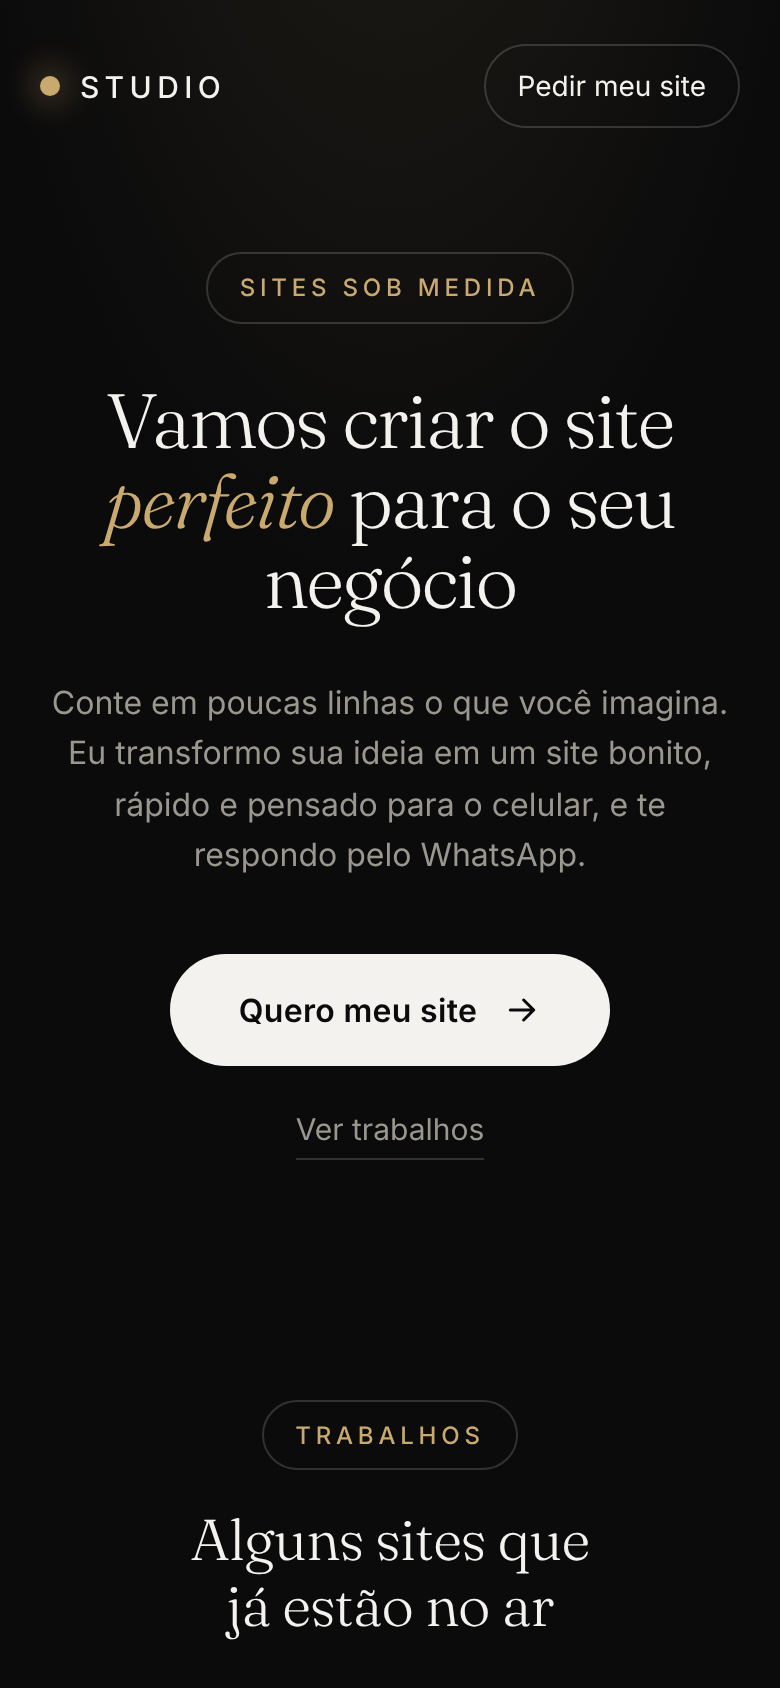
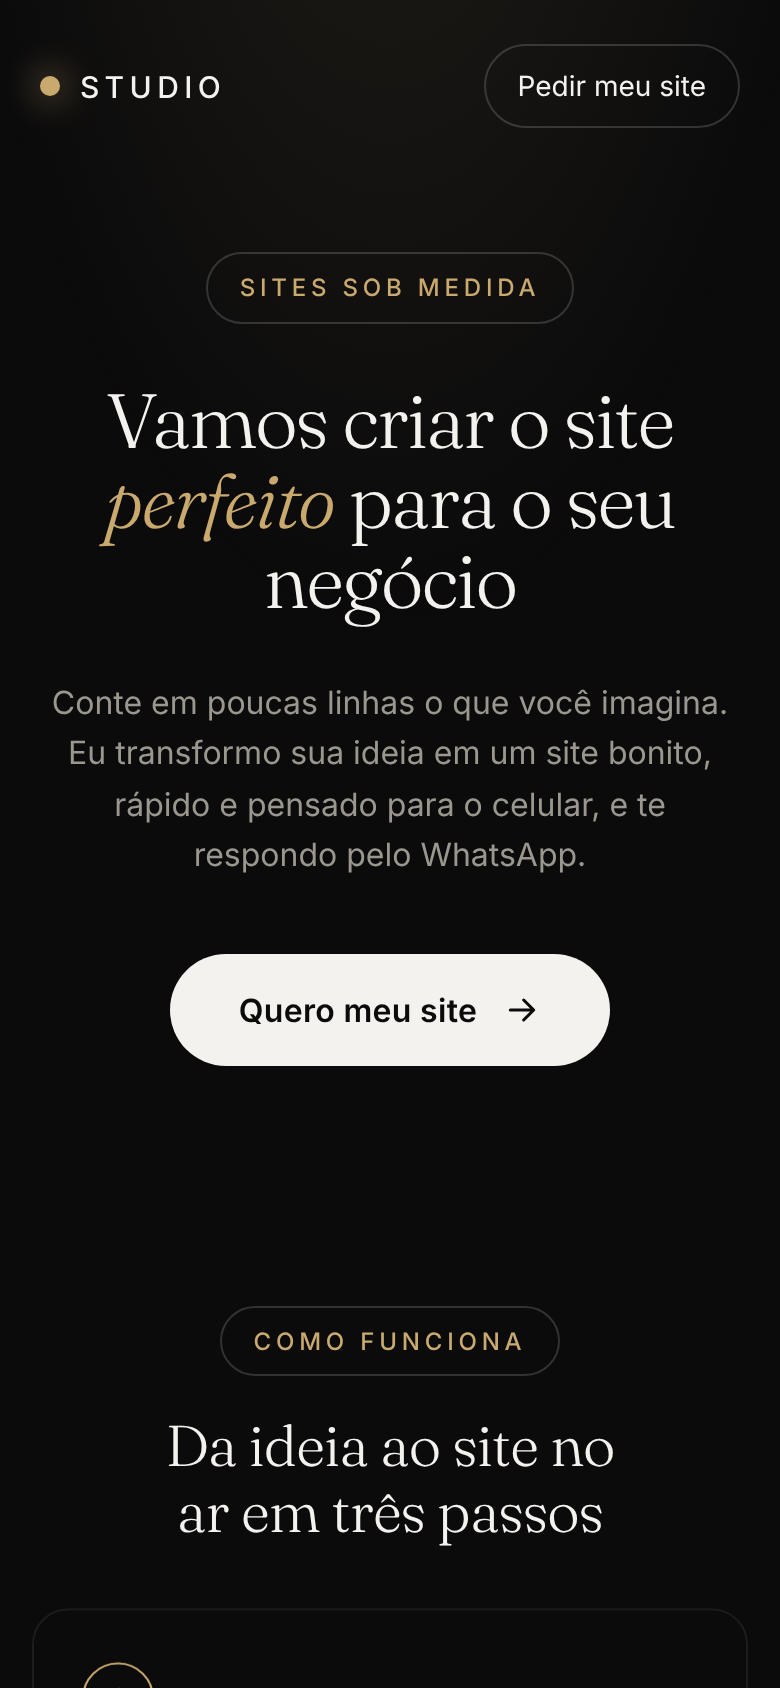
Remove a seção de trabalhos da página de pedidos
Claude-Session: https://claude.ai/code/session_0116UvJFRkvEnM8AnAFJzZmN

diff --git a/pedidos/index.html b/pedidos/index.html
@@ -40,7 +40,6 @@
   <header class="topbar">
     <span class="brand"><span class="brand__mark" aria-hidden="true"></span>Studio</span>
     <nav class="topbar__nav" aria-label="Principal">
-      <a href="#trabalhos">Trabalhos</a>
       <a href="#duvidas">Dúvidas</a>
       <a class="topbar__cta" href="#pedido">Pedir meu site</a>
     </nav>
@@ -62,50 +61,6 @@
           <span class="btn__label">Quero meu site</span>
           <span class="btn__icon" aria-hidden="true">
             <svg viewBox="0 0 24 24" width="20" height="20"><path d="M5 12h14M13 6l6 6-6 6" fill="none" stroke="currentColor" stroke-width="1.8" stroke-linecap="round" stroke-linejoin="round"/></svg>
-          </span>
-        </a>
-        <a class="link-arrow" href="#trabalhos">Ver trabalhos</a>
-      </div>
-    </section>
-
-    <!-- ========================== PORTFÓLIO ========================== -->
-    <section class="section" id="trabalhos">
-      <div class="section__head reveal">
-        <p class="eyebrow">Trabalhos</p>
-        <h2 class="section__title">Alguns sites que já estão no ar</h2>
-      </div>
-
-      <div class="work-grid">
-        <a class="work reveal" href="../obaraki/" target="_blank" rel="noopener">
-          <span class="work__shot"><img src="img/portfolio/obaraki.jpg" alt="Página inicial do site da ObaraKi Temakeria no celular" loading="lazy" width="585" height="1170"></span>
-          <span class="work__info">
-            <span class="work__tag">Delivery</span>
-            <strong>ObaraKi Temakeria</strong>
-            <span>Cardápio, carrinho e pedido pelo WhatsApp</span>
-          </span>
-        </a>
-        <a class="work reveal" href="../maxilimp/" target="_blank" rel="noopener">
-          <span class="work__shot"><img src="img/portfolio/maxilimp.jpg" alt="Página inicial do site da Maxilimp no celular" loading="lazy" width="585" height="1170"></span>
-          <span class="work__info">
-            <span class="work__tag">Institucional</span>
-            <strong>Maxilimp</strong>
-            <span>Serviços, antes e depois e pedido de orçamento</span>
-          </span>
-        </a>
-        <a class="work reveal" href="../afinador/" target="_blank" rel="noopener">
-          <span class="work__shot"><img src="img/portfolio/afinador.jpg" alt="Tela inicial do aplicativo Afina no celular" loading="lazy" width="585" height="1170"></span>
-          <span class="work__info">
-            <span class="work__tag">Aplicativo web</span>
-            <strong>Afina</strong>
-            <span>Afinador que se instala no celular como app</span>
-          </span>
-        </a>
-        <a class="work reveal" href="../" target="_blank" rel="noopener">
-          <span class="work__shot"><img src="img/portfolio/vitrine.jpg" alt="Página de link na bio com vitrine de produtos no celular" loading="lazy" width="585" height="1170"></span>
-          <span class="work__info">
-            <span class="work__tag">Link na bio</span>
-            <strong>Vitrine de achadinhos</strong>
-            <span>Produtos com links de afiliado e busca</span>
           </span>
         </a>
       </div>

diff --git a/pedidos/css/style.css b/pedidos/css/style.css
@@ -145,16 +145,6 @@ main, .topbar, .footer { position: relative; z-index: 1; }
   margin-top: 36px;
 }
 
-.link-arrow {
-  color: var(--muted);
-  font-size: 15px;
-  text-decoration: none;
-  border-bottom: 1px solid var(--line-strong);
-  padding-bottom: 2px;
-  transition: color 0.3s, border-color 0.3s;
-}
-.link-arrow:hover { color: var(--text); border-color: var(--gold); }
-
 /* ---------------------------- Seções ---------------------------- */
 .section {
   max-width: 1120px;
@@ -171,54 +161,6 @@ main, .topbar, .footer { position: relative; z-index: 1; }
   font: 300 clamp(1.8rem, 6vw, 2.6rem) / 1.15 var(--serif);
   letter-spacing: -0.015em;
   text-wrap: balance;
-}
-
-/* Portfólio */
-.work-grid {
-  display: grid;
-  grid-template-columns: repeat(2, minmax(0, 1fr));
-  gap: 14px;
-}
-.work {
-  display: flex;
-  flex-direction: column;
-  overflow: hidden;
-  background: var(--surface);
-  border: 1px solid var(--line);
-  border-radius: 18px;
-  color: var(--text);
-  text-decoration: none;
-  transition: border-color 0.4s var(--ease), transform 0.4s var(--ease);
-}
-.work:hover { border-color: var(--line-strong); transform: translateY(-4px); }
-.work:focus-visible { outline: 2px solid var(--gold); outline-offset: 4px; }
-.work__shot {
-  display: block;
-  aspect-ratio: 4 / 5;
-  max-width: 100%;
-  overflow: hidden;
-  border-bottom: 1px solid var(--line);
-}
-.work__shot img {
-  display: block;
-  width: 100%;
-  height: auto;
-  transition: transform 1.2s var(--ease);
-}
-.work:hover .work__shot img { transform: translateY(-6%); }
-.work__info {
-  display: grid;
-  gap: 4px;
-  padding: 14px 14px 16px;
-  font-size: 13px;
-  color: var(--muted);
-}
-.work__info strong { color: var(--text); font-size: 15px; font-weight: 500; }
-.work__tag {
-  color: var(--gold);
-  font-size: 11px;
-  letter-spacing: 0.14em;
-  text-transform: uppercase;
 }
 
 /* Como funciona */
@@ -685,9 +627,6 @@ main, .topbar, .footer { position: relative; z-index: 1; }
   .card { padding: 52px 48px; }
 }
 
-@media (min-width: 900px) {
-  .work-grid { grid-template-columns: repeat(4, minmax(0, 1fr)); gap: 18px; }
-}
 
 @media (prefers-reduced-motion: reduce) {
   *, *::before, *::after {

diff --git a/pedidos/README.md b/pedidos/README.md
@@ -18,9 +18,8 @@ a pasta para qualquer hospedagem (GitHub Pages, Netlify, Vercel, Hostinger…).
 pedidos/
 ├── previa/        Capturas de tela da página
 ├── img/
-│   ├── og-image.jpg  Imagem que aparece ao compartilhar o link
-│   └── portfolio/    Prints dos trabalhos mostrados na seção "Trabalhos"
-├── index.html      Página: topo, trabalhos, como funciona, formulário,
+│   └── og-image.jpg  Imagem que aparece ao compartilhar o link
+├── index.html      Página: topo, como funciona, formulário,
 │                   dúvidas frequentes e rodapé
 ├── css/style.css   Visual (cores, fontes, animações)
 └── js/
@@ -139,10 +138,6 @@ texto, edite a função `montarMensagem` em `js/app.js`.
   imagem `img/og-image.jpg`.
 - **Rodapé:** preencha `instagram` e `cidade` em `js/config.js`. Vazios, eles
   não aparecem.
-- **Trabalhos:** cada card fica no `index.html`, na seção `id="trabalhos"`.
-  Os prints ficam em `img/portfolio/` (formato de celular, 390 × 780).
-  Os links apontam para as pastas vizinhas deste repositório (`../obaraki/`
-  etc.); se os sites estiverem em outro endereço, troque o `href`.
 - **Dúvidas frequentes:** as respostas ficam no `index.html`, na seção
   `id="duvidas"`. Revise para que digam exatamente como você trabalha.
 - **Imagem de compartilhamento:** quando tiver domínio, troque `og:image` no
